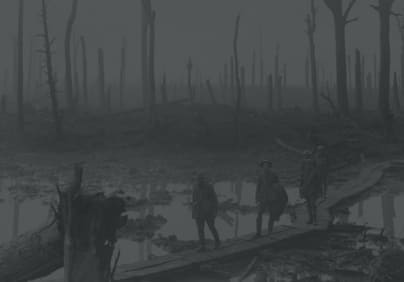
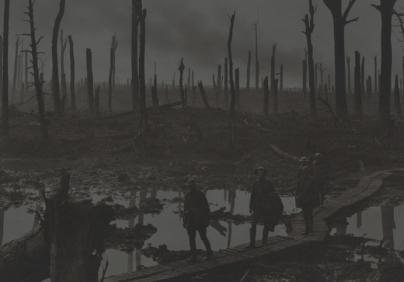
projects

diff --git a/src/css/app.min.css b/src/css/app.min.css
@@ -1,1 +1,1 @@
-:root{--erie-plati:#222425;--main-color:#E2E5E9;--main-title:#EBEDF0;--opaque:rgba(226,229,233,.6);--options:rgba(226,229,233,.8);--transparent:rgba(226,229,233,.3);--jet-platinum:#2A2C2D}:root{--erie-plati:#222425;--main-color:#E2E5E9;--main-title:#EBEDF0;--opaque:rgba(226,229,233,.6);--options:rgba(226,229,233,.8);--transparent:rgba(226,229,233,.3);--jet-platinum:#2A2C2D}@keyframes header-absolute{from{padding-bottom:rem(5);padding-top:rem(8)}to{padding-bottom:rem(11);padding-top:rem(12)}}@keyframes header-fixed{from{padding-bottom:rem(11);padding-top:rem(12)}to{padding-bottom:rem(5);padding-top:rem(8)}}@keyframes code{0%{opacity:.1}50%{opacity:1}100%{opacity:.1}}*,*:before,*:after{border:0;margin:0;padding:0;box-sizing:border-box;border-spacing:0}*:focus{outline:none}html,body{overflow-x:hidden}body{background:var(--erie-plati);color:var(--main-color);overflow-y:auto}body body,body main{display:grid;place-items:center}body main,body section,body footer{overflow:hidden}body h1{font-weight:200;letter-spacing:.0625rem}body a{text-decoration:none}body{scrollbar-width:thin;scrollbar-color:#7c6a6a}body::-webkit-scrollbar{width:.43rem}body::-webkit-scrollbar-track{background:var(--erie-plati)}body::-webkit-scrollbar-thumb{background:var(--main-color);border:.375rem solid var(--main-color)}:root{--erie-plati:#222425;--main-color:#E2E5E9;--main-title:#EBEDF0;--opaque:rgba(226,229,233,.6);--options:rgba(226,229,233,.8);--transparent:rgba(226,229,233,.3);--jet-platinum:#2A2C2D}@keyframes header-absolute{from{padding-bottom:.3125rem;padding-top:.5rem}to{padding-bottom:.6875rem;padding-top:.75rem}}@keyframes header-fixed{from{padding-bottom:.6875rem;padding-top:.75rem}to{padding-bottom:.3125rem;padding-top:.5rem}}@keyframes code{0%{opacity:.1}50%{opacity:1}100%{opacity:.1}}header{position:absolute;top:0;gap:58.875rem;left:0;width:100vw;background:var(--erie-plati);animation:header-absolute .3s linear forwards}header,header nav{display:flex;justify-content:center;align-items:center}header nav{top:-0.0625rem;gap:1.1875rem}header nav,header nav svg{position:relative}header nav svg{width:1.1875rem;top:.0625rem;opacity:.8}header nav svg path{fill:var(--main-color)}header.fixed{animation:header-fixed .4s linear forwards}header h1,header svg{cursor:pointer}header h1{font-size:1.375rem}header h1:after{content:"_";font-size:1.5625rem;margin-top:-0.0625rem;position:absolute;animation:code 2.7s linear infinite}header a{font-size:.75rem;background:linear-gradient(180deg, #0360E2 0%, rgba(49, 133, 252, 0.6) 100%);color:#e2e5e9;font-weight:400;letter-spacing:.0625rem;padding:.375rem 1.3125rem .3125rem 1.3125rem;border-radius:.1875rem}header a,header a:hover{transition:.2s}header a:hover{box-shadow:0px 0px 6px 3px rgba(49,133,252,.3)}:root{--erie-plati:#222425;--main-color:#E2E5E9;--main-title:#EBEDF0;--opaque:rgba(226,229,233,.6);--options:rgba(226,229,233,.8);--transparent:rgba(226,229,233,.3);--jet-platinum:#2A2C2D}main .name-social{margin-top:12rem;gap:1.3125rem}main .name-social,main .name-social article{display:grid;place-items:center}main .name-social h1{color:var(--main-title);font-size:2.25rem}main .name-social span{color:var(--opaque);font-weight:200;letter-spacing:.0625rem;font-size:1.125rem}main .name-social .network{display:flex;justify-content:center;align-items:center;gap:.8125rem}main .handle-projects{background:var(--jet-platinum);padding:.4375rem .5rem;display:flex;justify-content:center;align-items:center;margin-top:2.5rem;gap:.3125rem}main .handle-projects{border-radius:1.5rem}main .handle-projects button{border-radius:1.125rem;cursor:pointer;color:var(--options);background:rgba(0,0,0,0);font-size:1rem;width:9.0625rem;padding:.5625rem 0;font-weight:200;letter-spacing:.0625rem;font-weight:200;letter-spacing:.0625rem}main .handle-projects button,main .handle-projects button.active,main .handle-projects button:hover{transition:.2s}main .handle-projects button.active,main .handle-projects button:hover{background:var(--erie-plati)}:root{--erie-plati:#222425;--main-color:#E2E5E9;--main-title:#EBEDF0;--opaque:rgba(226,229,233,.6);--options:rgba(226,229,233,.8);--transparent:rgba(226,229,233,.3);--jet-platinum:#2A2C2D}body.active main a:first-child svg:hover path:last-child,body.active footer a:first-child svg:hover path:last-child{fill:#e2e5e9}body.active main a:last-child svg path,body.active footer a:last-child svg path{fill:var(--main-color)}body.active main a:last-child svg,body.active main a:last-child svg:hover,body.active footer a:last-child svg,body.active footer a:last-child svg:hover{transition:.2s}body.active main a:last-child svg:hover path,body.active footer a:last-child svg:hover path{fill:#0360e2}.network a:before,.network a:hover:before{transition:.2s}.network a:hover:before{background:#e2e5e9}.network a:before{content:"";position:absolute;margin-top:.09375rem;border-radius:.4375rem;z-index:-1;background:var(--erie-plati)}.network a:first-child svg path:first-child{fill:var(--main-color)}.network a:first-child svg path:last-child{fill:var(--erie-plati)}.network a:first-child svg:hover path:first-child{fill:#0360e2}.network a:first-child svg:hover path:last-child{fill:var(--main-color)}.network a:nth-child(2) svg path{fill:var(--main-color)}.network a:nth-child(2) svg,.network a:nth-child(2) svg:hover{transition:.2s}.network a:nth-child(2) svg:hover path{fill:#0360e2}.network svg path,.network svg:hover path{transition:.2s}.network svg:hover path{fill:#0360e2}main a:before{width:1.375rem;height:1.375rem}footer a:before{width:1.3125rem;height:1.1875rem}:root{--erie-plati:#222425;--main-color:#E2E5E9;--main-title:#EBEDF0;--opaque:rgba(226,229,233,.6);--options:rgba(226,229,233,.8);--transparent:rgba(226,229,233,.3);--jet-platinum:#2A2C2D}body.active footer h2{color:var(--options)}body.active footer p{font-weight:400}footer{width:100vw;position:absolute;bottom:0;padding:.25rem 0;gap:45.125rem}footer,footer article,footer div{display:flex;justify-content:center;align-items:center}footer article{gap:.875rem;position:relative;top:-0.25rem}footer h2{font-size:.75rem;font-weight:300;letter-spacing:.0625rem;color:var(--transparent)}footer h2:after{font-weight:200;letter-spacing:.0625rem;content:"_";font-size:1rem;margin-top:-0.25rem;position:absolute;animation:code 2.7s linear infinite}footer p{font-weight:200;letter-spacing:.0625rem;color:var(--main-color);font-size:.8125rem}footer div{gap:.75rem}footer div svg{width:1.3125rem}/*# sourceMappingURL=app.min.css.map */
+:root{--erie-plati:#222425;--main-color:#E2E5E9;--main-title:#EBEDF0;--opaque:rgba(226,229,233,.6);--options:rgba(226,229,233,.8);--transparent:rgba(226,229,233,.3);--jet-platinum:#2A2C2D}:root{--erie-plati:#222425;--main-color:#E2E5E9;--main-title:#EBEDF0;--opaque:rgba(226,229,233,.6);--options:rgba(226,229,233,.8);--transparent:rgba(226,229,233,.3);--jet-platinum:#2A2C2D}@keyframes header-absolute{from{padding-bottom:rem(5);padding-top:rem(8)}to{padding-bottom:rem(11);padding-top:rem(12)}}@keyframes header-fixed{from{padding-bottom:rem(11);padding-top:rem(12)}to{padding-bottom:rem(5);padding-top:rem(8)}}@keyframes code{0%{opacity:.1}50%{opacity:1}100%{opacity:.1}}*,*:before,*:after{border:0;margin:0;padding:0;box-sizing:border-box;border-spacing:0}*:focus{outline:none}html,body{overflow-x:hidden}body{background:var(--erie-plati);color:var(--main-color);overflow-y:auto}body body,body main{display:grid;place-items:center}body main,body section,body footer{overflow:hidden}body h1{font-weight:200;letter-spacing:.0625rem}body a{text-decoration:none}body{scrollbar-width:thin;scrollbar-color:#7c6a6a}body::-webkit-scrollbar{width:.43rem}body::-webkit-scrollbar-track{background:var(--erie-plati)}body::-webkit-scrollbar-thumb{background:var(--main-color);border:.375rem solid var(--main-color)}:root{--erie-plati:#222425;--main-color:#E2E5E9;--main-title:#EBEDF0;--opaque:rgba(226,229,233,.6);--options:rgba(226,229,233,.8);--transparent:rgba(226,229,233,.3);--jet-platinum:#2A2C2D}@keyframes header-absolute{from{padding-bottom:.3125rem;padding-top:.5rem}to{padding-bottom:.6875rem;padding-top:.75rem}}@keyframes header-fixed{from{padding-bottom:.6875rem;padding-top:.75rem}to{padding-bottom:.3125rem;padding-top:.5rem}}@keyframes code{0%{opacity:.1}50%{opacity:1}100%{opacity:.1}}header{position:absolute;top:0;gap:58.875rem;left:0;width:100vw;z-index:3;background:var(--erie-plati);animation:header-absolute .3s linear forwards}header,header nav{display:flex;justify-content:center;align-items:center}header nav{top:-0.0625rem;gap:1.1875rem}header nav,header nav svg{position:relative}header nav svg{width:1.1875rem;top:.0625rem;opacity:.8}header nav svg path{fill:var(--main-color)}header.fixed{animation:header-fixed .4s linear forwards}header h1,header svg{cursor:pointer}header h1{font-size:1.375rem}header h1:after{content:"_";font-size:1.5625rem;margin-top:-0.0625rem;position:absolute;animation:code 2.7s linear infinite}header a{font-size:.75rem;background:linear-gradient(180deg, #0360E2 0%, rgba(49, 133, 252, 0.6) 100%);color:#e2e5e9;font-weight:400;letter-spacing:.0625rem;padding:.375rem 1.3125rem .3125rem 1.3125rem;border-radius:.1875rem}header a,header a:hover{transition:.2s}header a:hover{box-shadow:0px 0px 6px 3px rgba(49,133,252,.3)}:root{--erie-plati:#222425;--main-color:#E2E5E9;--main-title:#EBEDF0;--opaque:rgba(226,229,233,.6);--options:rgba(226,229,233,.8);--transparent:rgba(226,229,233,.3);--jet-platinum:#2A2C2D}body.active .handle-projects button{font-weight:300}main .name-social{margin-top:10rem;gap:1.3125rem}main .name-social,main .name-social article{display:grid;place-items:center}main .name-social h1{color:var(--main-title);font-size:2.25rem}main .name-social span{color:var(--opaque);font-weight:200;letter-spacing:.0625rem;font-size:1.125rem}main .name-social .network{display:flex;justify-content:center;align-items:center;gap:.6875rem}main .handle-projects{background:var(--jet-platinum);padding:.4375rem .5rem;display:flex;justify-content:center;align-items:center;margin-top:2.5rem;gap:.3125rem}main .handle-projects{border-radius:1.5rem}main .handle-projects button{border-radius:1.125rem;cursor:pointer;color:var(--options);background:rgba(0,0,0,0);font-size:1rem;width:9.0625rem;padding:.5625rem 0;font-weight:200;letter-spacing:.0625rem;font-weight:200;letter-spacing:.0625rem}main .handle-projects button,main .handle-projects button.active,main .handle-projects button:hover{transition:.2s}main .handle-projects button.active,main .handle-projects button:hover{background:var(--erie-plati)}main .projects{display:flex;justify-content:center;align-items:center;width:46rem;flex-wrap:wrap;gap:1.3125rem;margin-top:2.125rem}main .projects a{display:flex;align-items:end;position:relative;width:21.875rem;height:15.625rem;color:rgba(226,229,233,.8);overflow:hidden;transition:.2s}main .projects a:nth-child(5) img{filter:brightness(40%)}main .projects a,main .projects a img{border-radius:.4375rem}main .projects a:hover{transition:.2s}main .projects a:hover img{transition:.6s;transform:scale(1.1);filter:brightness(80%)}main .projects img{position:absolute;-o-object-fit:cover;object-fit:cover;z-index:-1;width:100%;height:100%;filter:brightness(70%);transition:.6s}main .projects article{z-index:1;height:3.75rem;position:relative;left:.75rem;bottom:.75rem;display:grid;place-items:left}main .projects article h2{letter-spacing:.0625rem;font-weight:300;font-size:1rem}main .projects svg{width:1.4375rem}:root{--erie-plati:#222425;--main-color:#E2E5E9;--main-title:#EBEDF0;--opaque:rgba(226,229,233,.6);--options:rgba(226,229,233,.8);--transparent:rgba(226,229,233,.3);--jet-platinum:#2A2C2D}body.active main a:first-child svg:hover path:last-child,body.active footer a:first-child svg:hover path:last-child{fill:#e2e5e9}body.active main a:last-child svg path,body.active footer a:last-child svg path{fill:var(--main-color)}body.active main a:last-child svg,body.active main a:last-child svg:hover,body.active footer a:last-child svg,body.active footer a:last-child svg:hover{transition:.2s}body.active main a:last-child svg:hover path,body.active footer a:last-child svg:hover path{fill:#0360e2}.network a:before,.network a:hover:before{transition:.2s}.network a:hover:before{background:#e2e5e9}.network a:before{content:"";position:absolute;margin-top:.09375rem;border-radius:.4375rem;z-index:-1;background:var(--erie-plati)}.network a:first-child svg path:first-child{fill:var(--main-color)}.network a:first-child svg path:last-child{fill:var(--erie-plati)}.network a:first-child svg:hover path:first-child{fill:#0360e2}.network a:first-child svg:hover path:last-child{fill:var(--main-color)}.network a:nth-child(2) svg path{fill:var(--main-color)}.network a:nth-child(2) svg,.network a:nth-child(2) svg:hover{transition:.2s}.network a:nth-child(2) svg:hover path{fill:#0360e2}.network svg path,.network svg:hover path{transition:.2s}.network svg:hover path{fill:#0360e2}main a:before{width:1.375rem;height:1.375rem}footer a:before{width:1.3125rem;height:1.1875rem}:root{--erie-plati:#222425;--main-color:#E2E5E9;--main-title:#EBEDF0;--opaque:rgba(226,229,233,.6);--options:rgba(226,229,233,.8);--transparent:rgba(226,229,233,.3);--jet-platinum:#2A2C2D}body.active footer h2{color:var(--options)}body.active footer p{font-weight:400}footer{width:100vw;padding:.25rem 0;gap:45.5rem;margin-top:6rem}footer,footer article,footer div{display:flex;justify-content:center;align-items:center}footer article{gap:.875rem;position:relative;top:-0.25rem}footer h2{font-size:.75rem;font-weight:300;letter-spacing:.0625rem;color:var(--transparent)}footer h2:after{font-weight:200;letter-spacing:.0625rem;content:"_";font-size:1rem;margin-top:-0.25rem;position:absolute;animation:code 2.7s linear infinite}footer p{font-weight:200;letter-spacing:.0625rem;color:var(--main-color);font-size:.8125rem}footer div{gap:.5625rem}footer div svg{width:1.3125rem}/*# sourceMappingURL=app.min.css.map */

diff --git a/src/components/Projects.jsx b/src/components/Projects.jsx
@@ -1,6 +1,66 @@
+import Ypres from '../assets/images/2-passchendaele.jpg'
+import Stories from '../assets/images/1-stories.jpg'
+import Sushi from '../assets/images/4-sushi.jpg'
+
+import Calculator from '../assets/images/3-calculator.jpg'
+import Bb from '../assets/images/6-bb.jpg'
+import Jws from '../assets/images/5-jws.jpg'
+
+import { ReactComponent as LinkSite } from '../assets/svg/1-link.svg'
+
 const Projects = () => {
   return (
-    <div>Projects</div>
+
+    <section className='projects'>
+      <a href="https://psilva999.github.io/passchendaele/" rel='noreferrer' target='_blank'>
+        <img src={ Ypres } alt="passchendaele"/>
+
+        <article> <h2>Passchendaele</h2>
+          <LinkSite/>
+        </article>
+      </a>
+
+      <a href="https://psilva999.github.io/stories-sabaton/" rel='noreferrer' target='_blank'>
+        <img src={ Stories } alt="stories-sabaton"/>
+
+        <article> <h2>Stories</h2>
+          <LinkSite/>
+        </article>
+      </a>
+
+      <a href="https://psilva999.github.io/sushi/" rel='noreferrer' target='_blank'>
+        <img src={ Sushi } alt="sushi"/>
+
+        <article> <h2>Sushi</h2>
+          <LinkSite/>
+        </article>
+      </a>
+
+      <a href="https://psilva999.github.io/calculator/" rel='noreferrer' target='_blank'>
+        <img src={ Calculator } alt="Calculator"/>
+
+        <article> <h2>Calculator</h2>
+          <LinkSite/>
+        </article>
+      </a>
+
+      <a href="https://psilva999.github.io/beloved-block-generator/" rel='noreferrer' target='_blank'>
+        <img src={ Bb } alt="generator"/>
+
+        <article> <h2>Beloved Block</h2>
+          <LinkSite/>
+        </article>
+      </a>
+
+      <a href="https://github.com/psilva999/JWSTelescope-demo" rel='noreferrer' target='_blank'>
+        <img src={ Jws } alt="JWS Telescope"/>
+
+        <article> <h2>JWS Telescope</h2>
+          <LinkSite/>
+        </article>
+      </a>
+    </section>
+
   )
 }
 

diff --git a/src/scss/_main.scss b/src/scss/_main.scss
@@ -1,8 +1,12 @@
 @import 'config';
 
+body.active .handle-projects button {
+  font-weight:300;
+}
+
 main {
   .name-social {
-    margin-top:12rem;
+    margin-top:10rem;
     gap:rem(21);
 
     &, article {
@@ -22,7 +26,7 @@ main {
 
     .network {
       @include flex;
-      gap:rem(13);
+      gap:rem(11);
     }
   }
 
@@ -57,5 +61,76 @@ main {
 
       @include weight;
     }
+  }
+
+  .projects {
+    @include flex;
+    width:rem(736);
+    flex-wrap:wrap;
+    gap:rem(21);
+    margin-top:rem(34);
+    
+    a {
+      display:flex;
+      align-items:end;
+      position:relative;
+      width:rem(350);
+      height:rem(250);
+      color:$white-opaque;
+      overflow:hidden;
+      @include transition;
+
+      &:nth-child(5) img {
+        filter:brightness(40%);
+      }
+      
+      &, img {
+        border-radius:rem(7);
+      }
+
+      &:hover {
+        @include transition;
+
+        img {
+          transition:.6s;
+          transform:scale(1.1);
+          filter:brightness(80%);
+        }
+      }
+    }
+
+    img {
+      position:absolute;
+      object-fit:cover;
+      z-index:-1;
+      width:100%;
+      height:100%;
+      filter:brightness(70%);
+      transition:.6s;
+    }
+
+    article {
+      z-index:1;
+      height:rem(60);
+      position:relative;
+      left:rem(12);
+      bottom:rem(12);
+      display:grid;
+      place-items:left;
+
+      h2 {
+        letter-spacing:rem(1);
+        font-weight:300;
+        font-size:rem(16);
+      }
+    }
+
+    svg {
+      width:rem(23);
+    }
+  }
+
+  .skills {
+
   }
 }

diff --git a/src/components/Main.jsx b/src/components/Main.jsx
@@ -1,8 +1,11 @@
 import Network from "./Network"
 
+import Projects from './Projects'
+// import Skills from './Skills'
+
 const Main = () => {
   return (
-    <>
+    <main>
       <section className='name-social'>
         <article> <h1>Wanderson Pedrosa</h1>
           <span>Web developer</span>
@@ -15,7 +18,10 @@ const Main = () => {
         <button className='active'>Projects</button>
         <button>Skills</button>
       </div>
-    </>
+
+      <Projects/>
+      {/* <Skills/> */}
+    </main>
   )
 }
 

diff --git a/src/App.jsx b/src/App.jsx
@@ -1,5 +1,5 @@
 import Header from "./components/Header"
-import Berserk from "./components/Berserk"
+import Main from "./components/Main"
 
 import Footer from "./components/Footer"
 
@@ -10,9 +10,7 @@ function App() {
     <>
       <Header/>
 
-      <main>
-        <Berserk/>
-      </main>
+      <Main/>
 
       <Footer/>
     </>

diff --git a/src/scss/_footer.scss b/src/scss/_footer.scss
@@ -12,10 +12,9 @@ body.active footer {
 
 footer {
   width:100vw;
-  position:absolute;
-  bottom:0;
   padding:.25rem 0;
-  gap:rem(722);
+  gap:rem(728);
+  margin-top:6rem;
 
   &, article, div {
     @include flex;
@@ -50,7 +49,7 @@ footer {
   }
 
   div {
-    gap:rem(12);
+    gap:rem(9);
 
     svg {
       width:rem(21);

diff --git a/src/scss/_config.scss b/src/scss/_config.scss
@@ -28,6 +28,7 @@
 $blue-white:linear-gradient(180deg, #0360E2 0%, rgba(49,133,252,.6) 100%);
 
 $platina:#E2E5E9;
+$white-opaque:rgba(226,229,233,.8);
 $dark:#222425;
 
 $tang:#0360E2;

diff --git a/src/scss/_header.scss b/src/scss/_header.scss
@@ -6,6 +6,7 @@ header {
   gap:rem(942);
   left:0;
   width:100vw;
+  z-index:3;
   background:var(--erie-plati);
   animation:header-absolute .3s linear forwards;
 
